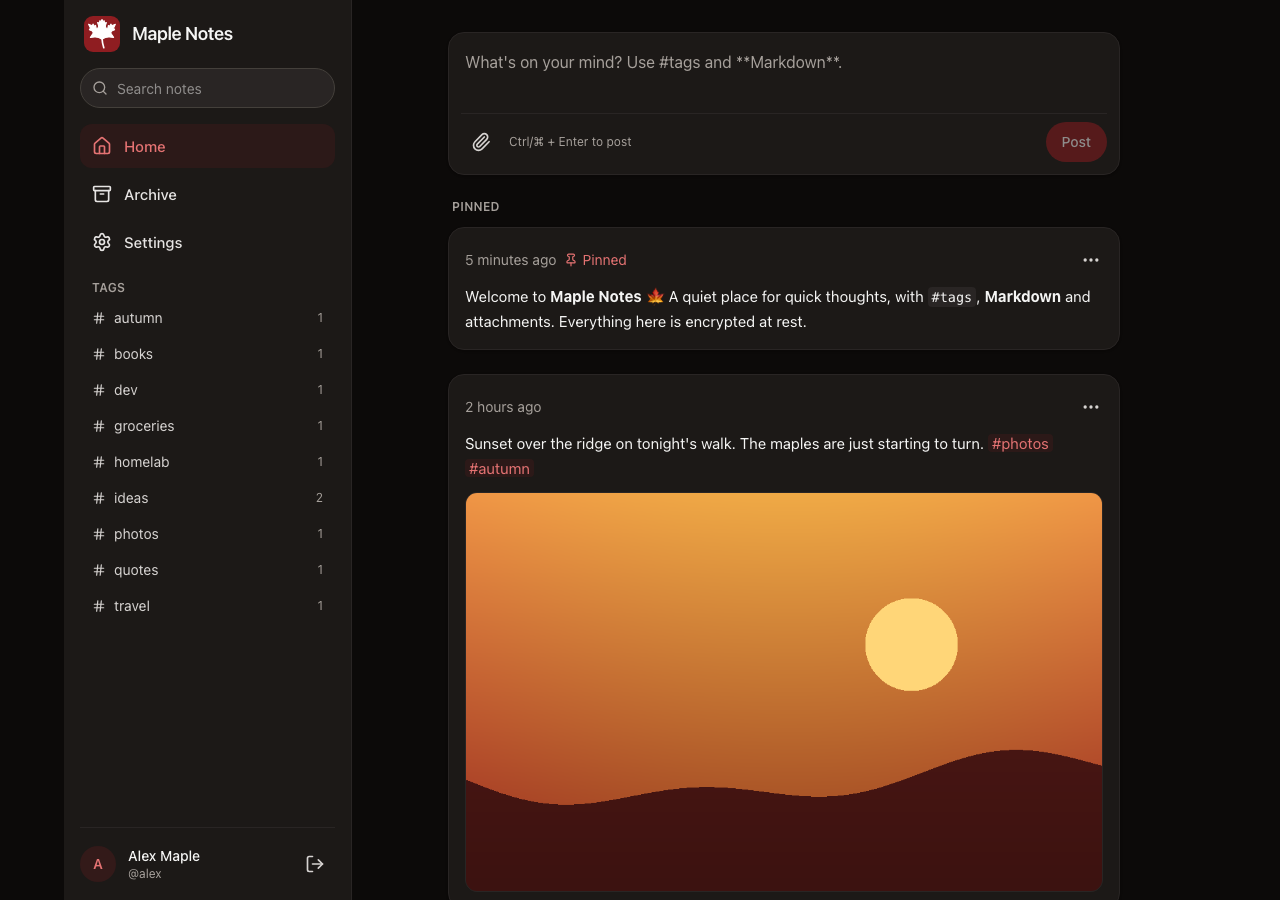
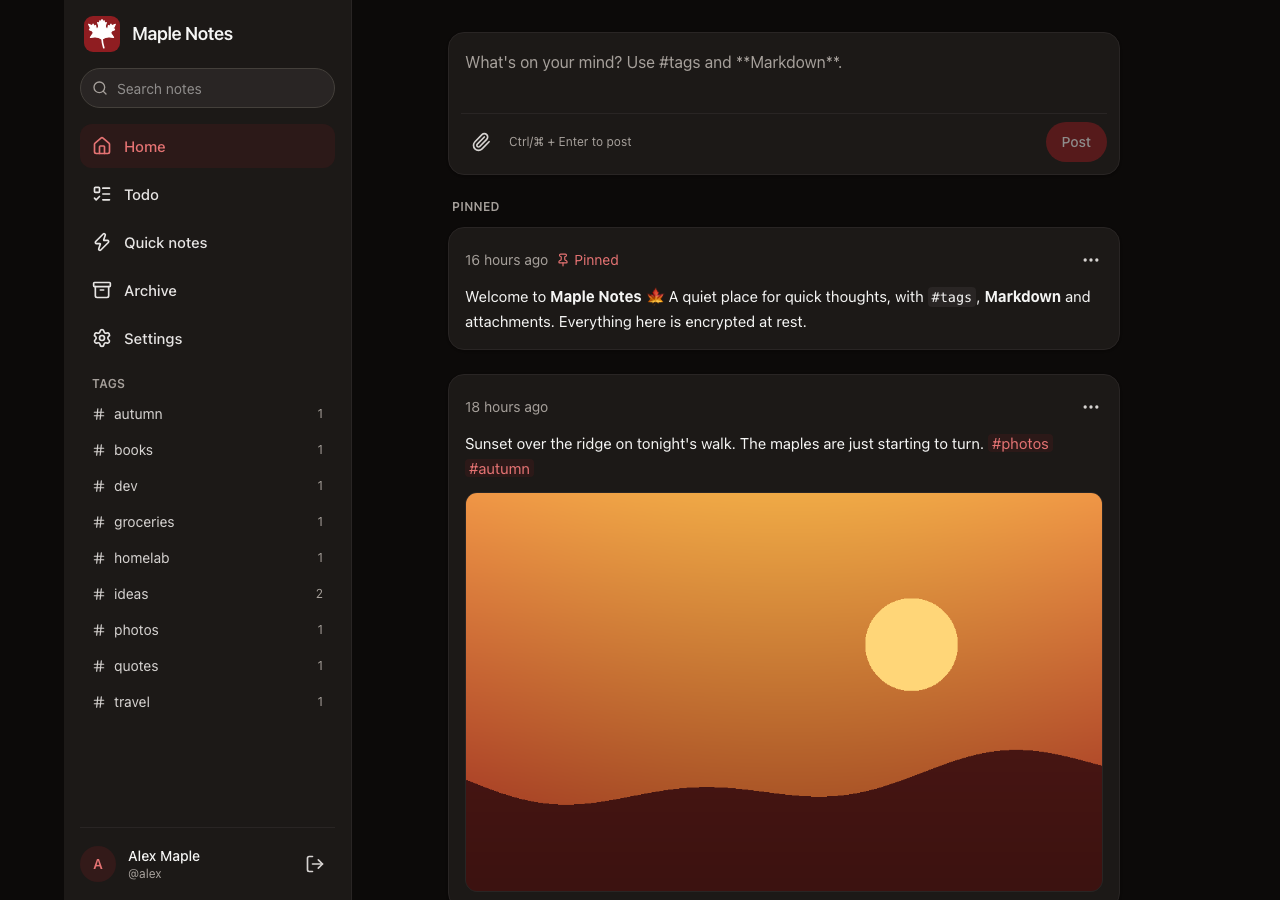
1.2 phase F8: documentation, hardening and release
- README: the new features, restore, upgrading from 1.1, and screenshots
  (a new Todo screenshot; Settings and the sidebar changed).
- Architecture, E2EE spec and threat model: note kinds, daily dates and
  preferences are plain metadata; titles and todo items are encrypted text;
  how restoring works, including for end-to-end accounts.
- Hardening: restored edit times are never in the future; the browser's ZIP
  reader refuses entries over 2 GiB.
- CHANGELOG 1.2.0; version 1.2.0.

diff --git a/src/maple-web/src/import/zip.ts b/src/maple-web/src/import/zip.ts
@@ -24,6 +24,9 @@ async function bytes(blob: Blob, start: number, end: number): Promise<DataView> 
 
 const u64 = (view: DataView, at: number) => Number(view.getBigUint64(at, true));
 
+/** The largest entry this reader extracts; bigger ones are refused rather than exhausting memory. */
+export const MAX_ENTRY_BYTES = 2 * 1024 ** 3;
+
 /** Lists a ZIP archive's files (not its folders). */
 export async function readZip(blob: Blob): Promise<ZipEntry[]> {
   // The end-of-central-directory record is in the last 22 bytes, or before a comment of up to 64 KiB.
@@ -87,6 +90,7 @@ export async function readZip(blob: Blob): Promise<ZipEntry[]> {
       name,
       size: uncompressed,
       async read() {
+        if (uncompressed > MAX_ENTRY_BYTES) throw new Error(`"${name}" is too large to restore.`);
         const header = await bytes(blob, start, start + 30);
         if (header.getUint32(0, true) !== LOCAL) throw new Error(`"${name}" is damaged.`);
         const dataAt = start + 30 + header.getUint16(26, true) + header.getUint16(28, true);

diff --git a/tests/MapleNotes.Server.Tests/Notes/ImportTests.cs b/tests/MapleNotes.Server.Tests/Notes/ImportTests.cs
@@ -96,6 +96,16 @@ public sealed class ImportTests : IAsyncLifetime
     }
 
     [Fact]
+    public async Task Edit_times_keep_their_order_and_never_lie_in_the_future()
+    {
+        var backwards = await Import(new ImportNoteRequest(Updated, Created, Guid.CreateVersion7(), "edited before created"));
+        var future = await Import(new ImportNoteRequest(Created, DateTime.UtcNow.AddYears(5), Guid.CreateVersion7(), "edited in 2031"));
+
+        Assert.Equal(backwards.CreatedAtUtc, backwards.UpdatedAtUtc);
+        Assert.True(future.UpdatedAtUtc <= DateTime.UtcNow);
+    }
+
+    [Fact]
     public async Task Invalid_imports_are_rejected()
     {
         var future = await _client.PostJsonAsync("/api/v1/notes/import", new ImportNoteRequest(DateTime.UtcNow.AddDays(3), DateTime.UtcNow.AddDays(3), Content: "x"));

diff --git a/src/MapleNotes.Server/Features/Notes/NoteService.cs b/src/MapleNotes.Server/Features/Notes/NoteService.cs
@@ -278,6 +278,8 @@ public sealed class NoteService(
             throw new ApiValidationException("createdAtUtc", "A note cannot have been created in the future.");
         }
 
+        // Edit times never lie in the future, nor before the note was created.
+        updated = updated > now ? now : updated;
         updated = updated < created ? created : updated;
         if (request.Id is { } requested && await GetAsync(userId, requested, cancellationToken) is { } existing)
         {

diff --git a/docs/architecture.md b/docs/architecture.md
@@ -2,7 +2,7 @@
 
 This document describes how Maple Notes is built and why. It is written for contributors and for operators who
 want to understand exactly what the encryption does and does not protect. The plans and history live in
-[PLAN.md](PLAN.md), [PLAN-E2EE.md](PLAN-E2EE.md) and [../CHANGELOG.md](../CHANGELOG.md). The end-to-end encryption
+[PLAN.md](PLAN.md), [PLAN-E2EE.md](PLAN-E2EE.md), [PLAN-1.2.md](PLAN-1.2.md) and [../CHANGELOG.md](../CHANGELOG.md). The end-to-end encryption
 formats are specified in [e2ee-spec.md](e2ee-spec.md), and what they protect against in
 [threat-model.md](threat-model.md). Third-party licensing is in [licensing.md](licensing.md).
 
@@ -37,14 +37,16 @@ flowchart LR
 | Path | Contents |
 |---|---|
 | `src/MapleNotes.Server/Program.cs` | Entry point: command-line modes, middleware pipeline, service registration. |
-| `src/MapleNotes.Server/Domain/` | Entities: `User`, `Note`, `Attachment`, `Tag`, `InstanceSetting`. |
-| `src/MapleNotes.Server/Features/` | One folder per feature: `Auth`, `Admin`, `Notes`, `Attachments`, `Encryption`, `EndToEnd` (key material, recovery, browser conversion), `Export`. Each has its controller, request/response records and service. |
+| `src/MapleNotes.Server/Domain/` | Entities: `User` (with `UserPreferences`), `Note` (with `NoteKind`), `Attachment`, `Tag`, `InstanceSetting`. |
+| `src/MapleNotes.Server/Features/` | One folder per feature: `Auth`, `Admin`, `Notes` (including daily notes and restoring), `Attachments`, `Encryption`, `EndToEnd` (key material, recovery, browser conversion), `Export`, `Preferences`. Each has its controller, request/response records and service. |
 | `src/MapleNotes.Server/Infrastructure/` | Cross-cutting code: `Configuration`, `Crypto`, `Persistence` (EF Core, migrations, backups), `Storage` (attachment files), `Hosting`, `Web` (auth, antiforgery, security headers, rate limits). |
 | `src/maple-web/` | React + TypeScript + Vite + Tailwind CSS single-page app. |
 | `src/maple-web/src/crypto/` | Browser cryptography: Argon2id in a Web Worker, HKDF, envelopes, the attachment format, recovery keys, key storage, and the shared test vectors. |
 | `src/maple-web/src/lib/` | API client, sign-in (`auth.ts`), end-to-end session (`e2ee.ts`), encryption at the API boundary (`noteCrypto.ts`), browser conversion (`conversion.ts`). |
 | `src/maple-web/src/sw/` | The service worker (`/sw.js`, built separately by `vite.sw.config.ts`): decrypts end-to-end media and streams browser exports. |
 | `src/maple-web/src/export/` | The browser export, a port of the server's, with the shared export vectors. |
+| `src/maple-web/src/import/` | Restoring: a ZIP reader, the parser for every export format and for single files, and the runner that restores notes through the API. |
+| `src/maple-web/src/pages/` | Home (with today's daily note), Todo, Quick notes, Archive, Settings, and the sign-in, unlock and recovery screens. |
 | `tests/MapleNotes.Server.Tests/` | Unit and integration tests (xUnit v3, `WebApplicationFactory`). |
 | `scripts/` | License check and third-party notice generator. |
 
@@ -61,8 +63,8 @@ carry a valid antiforgery token. Both are enforced globally, so a new endpoint i
 
 | Entity | Notes |
 |---|---|
-| `User` | Username (unique, case-insensitive), PBKDF2 hash of the key derived from the password with its Argon2id salt and parameters, role, encryption mode (`Off`, `AtRest`, `EndToEnd`), server-held wrapped data key (absent once an end-to-end account needs none), end-to-end key material (the browser's data key wrapped by the password and by the recovery key, and a hash of the recovery authentication key), security stamp, lockout state. |
-| `Note` | Owner, content bytes, `Scheme` (`None`, `Server`, `EndToEnd`), pinned, `ArchivedAtUtc` (archive = soft delete), timestamps, `Revision` (concurrency token). |
+| `User` | Username (unique, case-insensitive), PBKDF2 hash of the key derived from the password with its Argon2id salt and parameters, role, encryption mode (`Off`, `AtRest`, `EndToEnd`), server-held wrapped data key (absent once an end-to-end account needs none), end-to-end key material (the browser's data key wrapped by the password and by the recovery key, and a hash of the recovery authentication key), security stamp, lockout state, and `Preferences` (titles, date format, which features are on; one JSON column, plain in every mode). |
+| `Note` | Owner, content bytes, `Scheme` (`None`, `Server`, `EndToEnd`), `Kind` (`Note` for the timeline, `Todo`, `Quick`), `DailyDate` (a daily note's day; unique per owner), pinned, `ArchivedAtUtc` (archive = soft delete), timestamps, `Revision` (concurrency token). A title is not a column: it is the text's first line written as a `# heading`, and a todo list is a Markdown task list, so both are encrypted, searched and exported like any text. |
 | `Attachment` | Owner, optional note, sanitized file name, content type, size, storage key, `Scheme`, `Revision`. End-to-end files store a placeholder name and type, and their real ones encrypted in `EncryptedMetadata`. |
 | `Tag` / `NoteTags` | Per-user tags parsed from `#tags` in note text. Tags of end-to-end notes have no name: a blind token (HMAC) and the name encrypted by the browser. |
 | `InstanceSetting` | Runtime settings changed by administrators (open registration). |
@@ -73,7 +75,9 @@ by the signed-in owner; requests for another user's items return 404, never 403,
 ### Feed pagination
 
 The feed uses keyset (cursor) pagination on `(CreatedAtUtc, Id)` descending, backed by an index on
-`(UserId, CreatedAtUtc, Id)`. A cursor is the position of the last item shown, so notes posted while the user scrolls
+`(UserId, CreatedAtUtc, Id)`, and one on `(UserId, Kind, CreatedAtUtc, Id)` for the timeline and the Todo and Quick
+notes tabs, which each list one kind. Searches, tag views, tag counts and the archive cover every kind the user has
+turned on. A cursor is the position of the last item shown, so notes posted while the user scrolls
 never shift later pages. Pinned notes are a separate list shown above the feed.
 
 Search runs over decrypted text, so it cannot use the database. It scans the user's notes in batches of 200 and
@@ -279,8 +283,10 @@ the worker, the page decrypts whole files into `blob:` URLs ([e2ee-spec.md §5](
 `GET /api/v1/export` streams a ZIP archive. Notes are read in batches of 200 in chronological order and decrypted in
 memory, and attachments are decrypted chunk by chunk. File names derive from the note's local creation time and first
 line (`2026-09-28_1430_buy-maple-syrup.md`). They are safe on Windows, macOS and Linux, and made unique
-case-insensitively. Folders follow the chosen layout. Attachments go to `attachments/` and are linked from notes by
-relative path. `manifest.json` describes the export and lists any damaged files.
+case-insensitively. Folders follow the chosen layout; todo lists and quick notes go under `todo/` and
+`quick-notes/`. Attachments go to `attachments/` and are linked from notes by relative path. Every format records
+each note's ID (the manifest does for plain text), kind and daily date. `manifest.json` (version 2) describes the
+export, lists every note, and lists any damaged files.
 
 .NET's `ZipArchive` still performs some synchronous writes internally, which ASP.NET Core forbids on the response. The
 archive is therefore produced on a background task into a bounded in-memory pipe (about 1 MB) that the request copies
@@ -294,6 +300,24 @@ daylight-saving change, slug collisions, Unicode, awkward file names) into `expo
 reproduce all 12 format and layout combinations entry by entry. The archive is streamed to disk through the media
 service worker (`/e2ee/export/{id}`, opened in a hidden iframe, since browsers do not pass `<a download>` requests to
 service workers); without the worker it is assembled in memory.
+
+## Restore
+
+Restoring is done by the browser for every account, so end-to-end accounts work the same way
+(`src/maple-web/src/import`). It reads Maple Notes exports in any format and layout, and single Markdown, text and JSON
+files; a ZIP without a manifest is read as a folder of such files. A small ZIP reader reads the archive's central
+directory, then one entry at a time from the chosen file, so a large export is never held in memory whole.
+
+The browser first asks `POST /api/v1/notes/import/existing` which of the export's note IDs the account already has, and
+skips those. For the rest it uploads each note's files like any upload, then sends the note to
+`POST /api/v1/notes/import` with its original ID, dates, pinned and archived state, kind and daily date, as plain text
+or, for end-to-end accounts, encrypted in the browser for that ID. The server never reuses another account's ID and
+never says whether one exists: a plain note gets a new ID, and an end-to-end note answers 409 and is encrypted again
+for a new one. A daily date already taken in the account is dropped, so the note arrives as an ordinary one.
+
+The web tests restore every archive in the shared export vectors and compare each note with the original, and a
+browser test restores an export into fresh instances (one of them end-to-end) and exports them again, getting the same
+archive.
 
 ## Background services
 
@@ -319,12 +343,12 @@ service workers); without the worker it is assembled in memory.
 
 ## Testing
 
-- **Server:** about 330 xUnit tests.
+- **Server:** about 355 xUnit tests.
   - Crypto primitives, including tampering, truncation, reordering, wrong keys and every chunk boundary.
   - The storage layer and startup, including the upgrade of a 1.0 database.
   - API behaviour through `WebApplicationFactory`: authentication (key-derived sign-in, legacy upgrade, unknown
     users), isolation between users, notes, attachments, encryption migration with crash simulation, and export across
-    every format and layout.
+    every format and layout; preferences, kinds, daily notes (including two devices at once) and restoring.
   - End-to-end encryption, with a C# implementation of the browser's side: key setup, unlock, recovery, notes, tags
     and files as ciphertext, conversion in both directions (interrupted, concurrent edits, key cleanup), and a scan of
     the raw database for the plain text.
@@ -332,11 +356,13 @@ service workers); without the worker it is assembled in memory.
 - **Shared vectors:** `test-vectors.json` (every end-to-end derivation and format) and `export-vectors.json` (the
   server's export archives) are written by the C# tests and checked by the web tests, so both implementations agree
   byte for byte.
-- **Web:** about 105 Vitest and Testing Library tests: the crypto against the vectors, key storage, the API boundary,
-  conversion, the service worker's range decryption, the browser export against the server's archives, Markdown
-  safety, composer, and the settings and recovery screens.
+- **Web:** about 155 Vitest and Testing Library tests: the crypto against the vectors, key storage, the API boundary,
+  conversion, the service worker's range decryption, the browser export against the server's archives, restoring
+  those archives, Markdown safety, the composer with titles, todo lists, quick and daily notes, preferences, and the
+  settings and recovery screens.
 - **Releases:** additionally tested in a real browser (Playwright, Chromium) against the built container at desktop
-  and 375 px widths, including end-to-end setup, unlock, recovery, video seeking, mode changes and export.
+  and 375 px widths, including end-to-end setup, unlock, recovery, video seeking, mode changes, export, the 1.2
+  features, and export → restore round trips.
 
 ## Operations
 

diff --git a/README.md b/README.md
@@ -6,7 +6,7 @@
 
 <p align="center">
   A self-hosted place for quick notes, encrypted at rest or end to end.<br>
-  Timeline feed · Markdown and #tags · attachments · export to Markdown, text or JSON · one Docker container.
+  Timeline feed · todo lists · daily notes · Markdown and #tags · attachments · export and restore · one Docker container.
 </p>
 
 <p align="center">
@@ -22,6 +22,13 @@
 - **Timeline feed.** Newest notes first, a quick-post box at the top, pinned notes above the feed, and infinite
   scroll that stays stable while new notes arrive.
 - **Full note lifecycle.** Create, edit inline, pin, archive (and restore), and delete (with confirmation).
+- **Titles and dates.** Optionally give notes a title, which can start with today's date in the format you choose.
+- **Todo lists.** A Todo tab for checklists: add items, tick them off, rename, pin and archive lists.
+- **Quick notes.** A scratchpad tab for short notes that stay out of your timeline; move one to Home when it is worth
+  keeping.
+- **Daily notes.** Optionally, today's note at the top of Home, titled with the date and saved when you first write.
+- **Your choice of features.** Each account turns titles, todo lists, quick notes and daily notes on or off in
+  Settings, on every device at once. Turning a feature off hides it and deletes nothing.
 - **Markdown and tags.** GitHub-flavoured Markdown (task lists, tables, code) and clickable `#tags`, including
   nested tags such as `#work/meetings`, with a tag list and tag filter.
 - **Attachments.** Images, video, audio and any other file, added by file picker, paste or drag-and-drop, with
@@ -35,18 +42,19 @@
   - **End-to-end**: your browser encrypts notes, tags, file names and files with a key only you hold. The server
     stores ciphertext it cannot read, and a recovery key lets you reset a forgotten password.
   - Changing mode converts existing notes and files safely, resuming if it is interrupted.
-- **Export.** Download everything, decrypted, as a ZIP of Markdown, plain text or JSON files, in flat or
-  year/month/day folders. Attachments are included and linked by relative path. With end-to-end encryption, your
-  browser builds the same archive itself.
+- **Export and restore.** Download everything, decrypted, as a ZIP of Markdown, plain text or JSON files, in flat or
+  year/month/day folders, with attachments linked by relative path. Restore such an export into any account, even on
+  another server: notes keep their dates, pins, archive state, kind and files, and notes you already have are skipped.
+  Single Markdown, text and JSON files can be added too. With end-to-end encryption, your browser does both.
 - **Accounts.** Multiple users with secure authentication. The first account becomes the administrator, who can open
   registration, disable or remove accounts, and appoint other administrators. Administrators never see anyone's notes.
 - **Mobile first.** Responsive design with light and dark themes that follow your system, keyboard shortcuts, and
   accessible menus and dialogs.
 - **Small and hardened.** One container: non-root, read-only root filesystem, built-in health check.
 
-| Mobile | Settings |
-|---|---|
-| ![Mobile View](docs/screenshots/mobile-view.png) | ![Settings](docs/screenshots/settings.png) |
+| Mobile | Todo lists | Settings |
+|---|---|---|
+| ![Mobile View](docs/screenshots/mobile-view.png) | ![Todo lists](docs/screenshots/todo.png) | ![Settings](docs/screenshots/settings.png) |
 
 Dark mode: [screenshot](docs/screenshots/home-feed-dark.png).
 
@@ -130,8 +138,10 @@ With `docker compose`, put these in `.env`; `docker-compose.yml` passes the comm
 
 **What this protects:**
 - Anyone who gets a copy of your disk, volume or backups without the master key sees only ciphertext.
-- With end-to-end encryption, even the server cannot read your notes, tags, file names or files. Someone with the
-  master key, the database or full control of the server's data sees only ciphertext, sizes and timestamps.
+- With end-to-end encryption, even the server cannot read your notes, titles, todo items, tags, file names or files.
+  Someone with the master key, the database or full control of the server's data sees only ciphertext, sizes,
+  timestamps, which kind each note is (timeline, todo list or quick note), which days have a daily note, and your
+  feature settings.
 
 **What it does not protect:**
 - Without end-to-end encryption, the server holds the keys while it runs, so someone who controls the running server,
@@ -151,6 +161,9 @@ on the sign-in page and enter your recovery key: you set a new password and get 
 end-to-end encryption cannot reset a forgotten password; keep it in a password manager.
 
 ## Backups
+
+Every user can download their own notes from **Settings → Backup & restore** and restore them there, into the same
+account or a new one on any Maple Notes 1.2 server. For the whole instance, back up the data volume.
 
 Everything lives in the data volume. A consistent backup while Maple Notes keeps running:
 
@@ -184,6 +197,12 @@ docker compose up -d --build
 ```
 
 Database migrations run automatically at startup, after an automatic backup.
+
+### From 1.1 to 1.2
+
+Nothing to do. Existing notes stay in the timeline, and every account starts with todo lists and quick notes turned
+on, and titles and daily notes off. Exports now record each note's kind and daily date (manifest version 2), and
+file todo lists and quick notes in their own folders. The API only gained fields and endpoints.
 
 ### From 1.0 to 1.1
 

diff --git a/CHANGELOG.md b/CHANGELOG.md
@@ -7,6 +7,40 @@ and this project adheres to [Semantic Versioning](https://semver.org/spec/v2.0.0
 
 ## [Unreleased]
 
+## [1.2.0] - 2026-09-29
+
+Titles, todo lists, quick notes, daily notes, and restoring from exports. Every feature works in all three encryption
+modes, and each account chooses which ones it uses.
+
+### Added
+
+- **Preferences** per account, shared by all of its devices: `GET`/`PUT /api/v1/account/preferences`, also returned
+  with the signed-in user.
+- **Note titles** (Settings → Writing, off by default): a title field when writing, stored as the note's first line as
+  a Markdown heading. Titles can start with today's date in one of eight formats.
+- **Todo lists** (Settings → Features, on by default): a Todo tab for checklists. Add, tick, edit and remove items;
+  rename, clear completed, pin, archive and delete lists.
+- **Quick notes** (on by default): a Quick notes tab for short notes kept out of the timeline, which can move to Home
+  and back.
+- **Daily notes** (off by default): today's note at the top of Home, titled with the date and saved when you first
+  write. There is one per day, also when two devices start it at once.
+- **Restore** (Settings → Backup & restore): bring back Maple Notes exports (`.zip`, any format and layout, with
+  attachments) and single `.md`, `.txt` and `.json` files. Notes keep their ID, dates, pinned and archived state, kind
+  and daily date. Notes you already have are skipped. For end-to-end accounts the browser encrypts everything first.
+- API: notes have a `kind` (`Note`, `Todo`, `Quick`) and a `dailyDate`. `GET /api/v1/notes` and `GET /api/v1/tags`
+  take repeatable `kind` parameters. New endpoints: `GET /api/v1/notes/daily/{date}`, `POST /api/v1/notes/import` and
+  `POST /api/v1/notes/import/existing`.
+
+### Changed
+
+- **Settings layout:** Account, Writing, Features, Backup & restore and Password come first. Encryption, the recovery
+  key, sessions and account deletion are in a collapsible **Advanced** section, which opens by itself while an
+  encryption change is being applied.
+- **Exports** record each note's kind and daily date in every format, and file todo lists and quick notes under
+  `todo/` and `quick-notes/`. The manifest is version 2.
+- Searches, tag views, tag counts and the archive cover every kind of note that is turned on, with todo lists and
+  quick notes labelled.
+
 ## [1.1.0] - 2026-09-29
 
 End-to-end encryption: an account can now have its notes, tags and files encrypted in the browser with a key the
@@ -124,6 +158,7 @@ First release.
 - **Uploaded files** are served inline only for passive media types, and always with `nosniff` and a sandboxing
   Content-Security-Policy.
 
-[Unreleased]: https://github.com/supunsarachitha/MapleNotes/compare/v1.1.0...HEAD
+[Unreleased]: https://github.com/supunsarachitha/MapleNotes/compare/v1.2.0...HEAD
+[1.2.0]: https://github.com/supunsarachitha/MapleNotes/compare/v1.1.0...v1.2.0
 [1.1.0]: https://github.com/supunsarachitha/MapleNotes/compare/v1.0.0...v1.1.0
 [1.0.0]: https://github.com/supunsarachitha/MapleNotes/releases/tag/v1.0.0

diff --git a/docs/PLAN-1.2.md b/docs/PLAN-1.2.md
@@ -63,7 +63,7 @@ rebuilt from the branch, so each phase can be tried as it lands (from F5 on).
 | F5 | Daily notes | Home's "Today" card creates the day's note on first write; one daily note per date is enforced; the setting (off by default) | ✅ Done |
 | F6 | Exports with kinds and daily notes | Server and browser exports record kind and daily date, and place todo lists and quick notes in their folders (manifest version 2). The shared export vectors cover the new data | ✅ Done |
 | F7 | Import and full restore | Export archives in every format and layout, and single `.md`/`.txt`/`.json` files, restore into any account, including end-to-end ones, with progress and a summary. Re-importing skips existing notes. Round-trip tests: export → import into a fresh account → identical export | ✅ Done |
-| F8 | Documentation, hardening and release | README (features, screenshots), architecture, spec and threat model, CHANGELOG (1.2.0), versions and notices updated; clean-clone browser run passes | ⏳ Not started |
+| F8 | Documentation, hardening and release | README (features, screenshots), architecture, spec and threat model, CHANGELOG (1.2.0), versions and notices updated; clean-clone browser run passes | ✅ Done |
 
 ### Notes from the phases
 
@@ -140,6 +140,13 @@ rebuilt from the branch, so each phase can be tried as it lands (from F5 on).
   - an end-to-end account on a fresh instance restores the same archive, stored as ciphertext, and its browser
     export matches too;
   - an end-to-end account whose IDs were already taken on its instance restores everything under new IDs.
+- **F8:** the review added two limits. Restored edit times are never in the future, and the browser's ZIP reader
+  refuses entries claiming more than 2 GiB rather than exhausting memory. Everything else in the new surface was
+  already validated: text length and ciphertext, attachment ownership, kinds, IDs, dates, the preference date
+  formats, and 500 IDs per existing-notes check, which only ever reports the caller's own. Verified on an image built
+  from a clean clone of the branch: 355 server and 156 web tests, and 140 browser checks in Chromium across 14 runs.
+  The runs cover every 1.1 suite (the 18-step suite, the 1.0 upgrade, keys, notes, media, the built worker, mode
+  changes and export) and every 1.2 phase (F2–F7).
 
 ## Out of scope for 1.2.0
 

diff --git a/docs/threat-model.md b/docs/threat-model.md
@@ -145,6 +145,8 @@ the password to the server one last time.
 | Number of notes and files, and when each was created and updated (also encoded in their IDs) | Tag names |
 | Approximate length of each note and exact size of each file (ciphertext is not padded) | File names, types and contents |
 | Which notes are pinned or archived, and which files belong to which note | Search queries |
+| Which notes are todo lists or quick notes, and which days have a daily note | Titles and todo items (they are part of the note's text) |
+| The account's preferences: whether titles, todo lists, quick notes and daily notes are on, and the date format | |
 | Which notes share a tag, and how many notes each tag has (tag tokens are deterministic per account) | The password, the data key, the recovery key |
 | Which notes and files the browser loads, and which tag token a filter uses | |
 
@@ -155,7 +157,10 @@ server cannot learn a tag's name, but it can see that two notes share one. Token
 
 - **The code comes from the server.** See [above](#a-server-that-is-compromised-and-changes-the-app). This is the
   largest gap and it is inherent to a browser app served by the same host.
-- **Metadata is visible.** Sizes, timestamps, structure and tag equality are listed above.
+- **Metadata is visible.** Sizes, timestamps, structure, kinds, daily dates, preferences and tag equality are listed
+  above.
+- **Restoring an export sends it through this browser.** Exports are decrypted by design, so the archive being
+  restored is plain text on the device until it is encrypted and sent.
 - **Integrity covers items, not the collection.** Deleted, withheld or rolled-back notes cannot be detected.
 - **The recovery key is as powerful as the password.** Anyone who has it can reset the password, sign in and read
   everything. It is shown once; store it offline. It can be replaced in Settings, which makes the old one useless.

diff --git a/docs/e2ee-spec.md b/docs/e2ee-spec.md
@@ -85,6 +85,15 @@ headers, tokens and the ID, and answers ciphertext from an account in another mo
 search (`q`) never matches an end-to-end note: the browser searches instead, scanning pages of notes and returning the
 matches with the cursor to continue from, and never sends the search text.
 
+**Metadata that stays plain (since 1.2).** A note's `kind` (`Note`, `Todo`, `Quick`) and a daily note's `dailyDate`
+are stored and sent in plain form, like the pinned and archived flags, and so are the account's preferences. Titles
+and todo items are part of the note text, so they are encrypted with it.
+
+**Restoring an export.** `POST /api/v1/notes/import` takes the same `{ id, encrypted }` fields, with the note's
+original ID. That ID must be a UUID version 7 but, unlike a new note's, may be old (not more than 24 hours in the
+future). If another account on the server uses the ID, the answer is 409, and the browser encrypts the note again for
+a new ID (the context binds the ID, so the ciphertext cannot simply be reused).
+
 ## 3. The E2EE data key and its subkeys
 
 The data key is 32 random bytes generated in the browser when E2EE is switched on. It never leaves the browser

diff --git a/docs/PLAN-E2EE.md b/docs/PLAN-E2EE.md
@@ -49,7 +49,7 @@ key. It can never unwrap it.
 | Can see | Cannot see |
 |---|---|
 | When notes were created and edited, their sizes and how many there are | Note text |
-| Pinned and archived flags | Tag names (it sees opaque tokens, and which notes share one) |
+| Pinned and archived flags; since 1.2, each note's kind, daily notes' dates and the account's preferences | Tag names (it sees opaque tokens, and which notes share one) |
 | Attachment sizes and upload times | Attachment contents, file names and types |
 | Sign-in times and IP addresses | The password or any key that decrypts content |
 

diff --git a/docs/licensing.md b/docs/licensing.md
@@ -113,6 +113,6 @@ not affect the license of Maple Notes' own code; their sources are available fro
 
 ## Before public release
 
-- [x] Regenerate `THIRD-PARTY-NOTICES.md` from the exact dependency versions being released (done for v1.0.0 and v1.1.0).
+- [x] Regenerate `THIRD-PARTY-NOTICES.md` from the exact dependency versions being released (done for v1.0.0, v1.1.0 and v1.2.0).
 - [ ] Put the copyright holder's legal name in the `Required Notice` line of `LICENSE`.
 - [ ] Search trademark databases (for example USPTO, EUIPO, WIPO) for "Maple Notes" in software classes.
